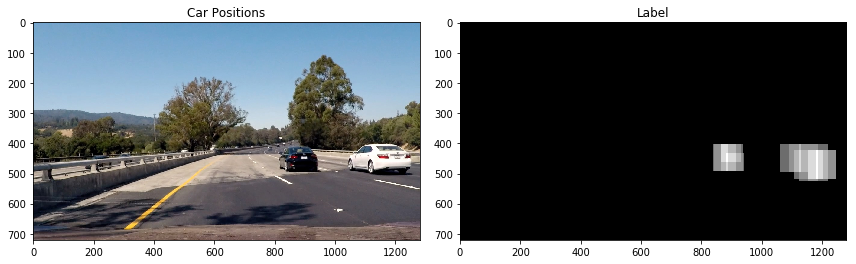
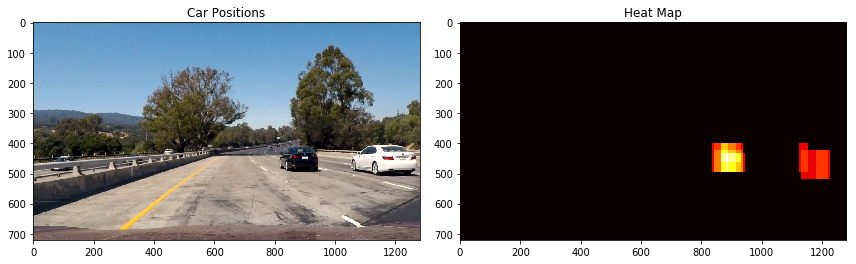
Started write up, step 8.1

diff --git a/writeup_template.md b/writeup_template.md
@@ -22,6 +22,7 @@ The goals / steps of this project are the following:
 [image3]: ./output_images/sliding_windows.png
 [image4]: ./output_images/sliding_window.png
 [image6]: ./output_images/labels_map.png
+[image61]: ./output_images/labels_map2.png
 [image7]: ./output_images/output_bboxes.png
 [video1]: ./project_video_output.mp4
 
@@ -227,6 +228,7 @@ Here's an example result showing the heatmap from a series of frames of video, t
 
 ### Here is the output of `scipy.ndimage.measurements.label()` on the integrated heatmap from all six frames:
 ![alt text][image6]
+![alt text][image61]
 
 ### Here the resulting bounding boxes are drawn onto the last frame in the series:
 ![alt text][image7]
